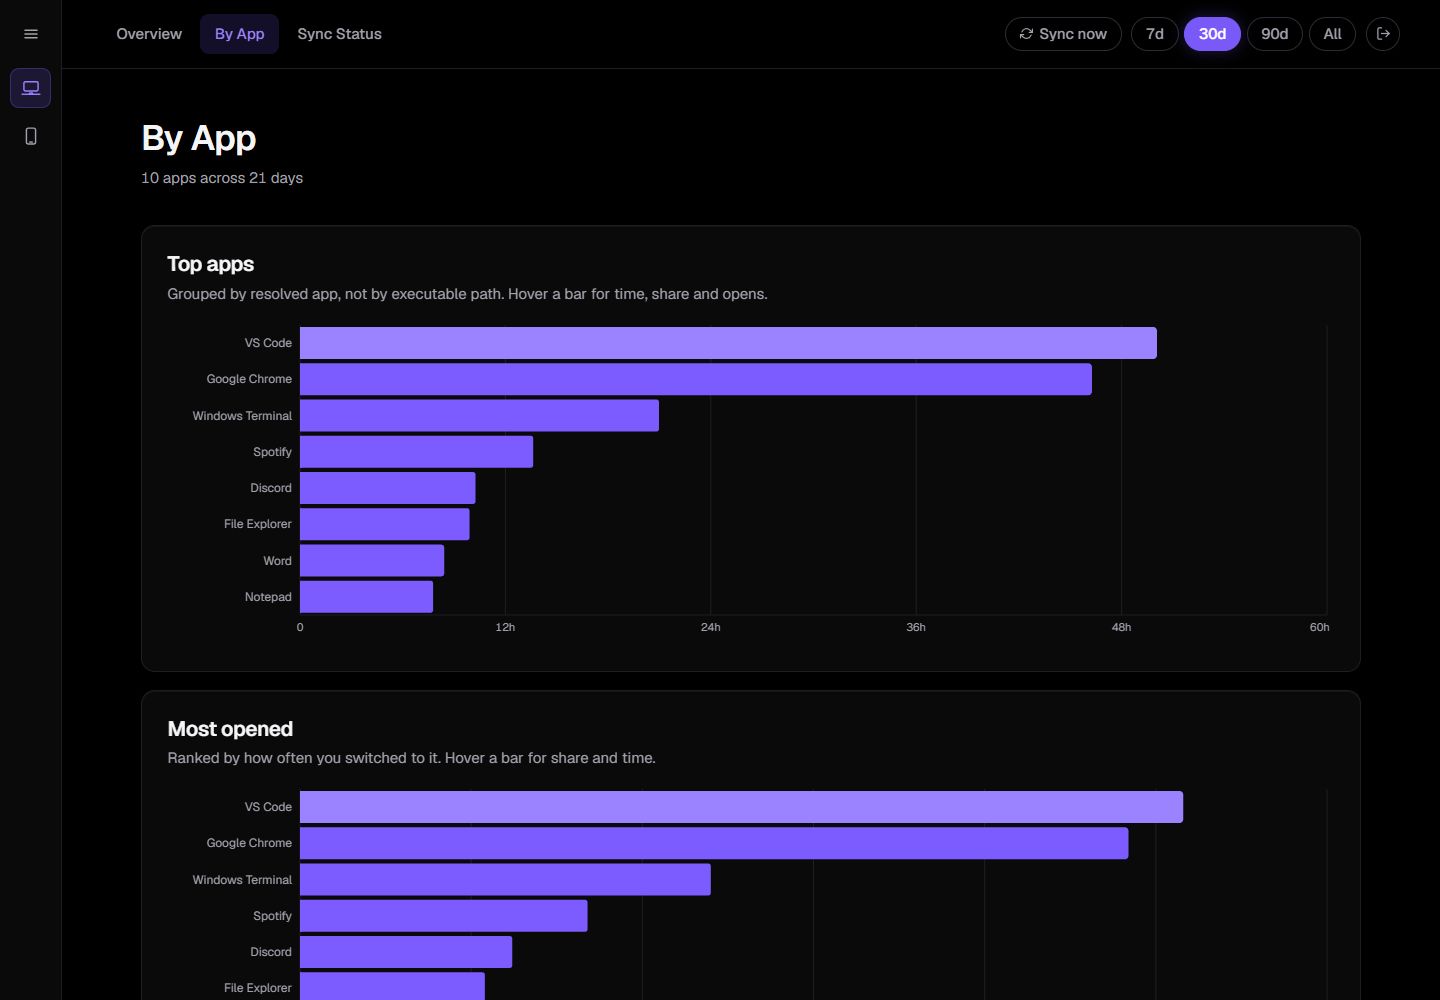
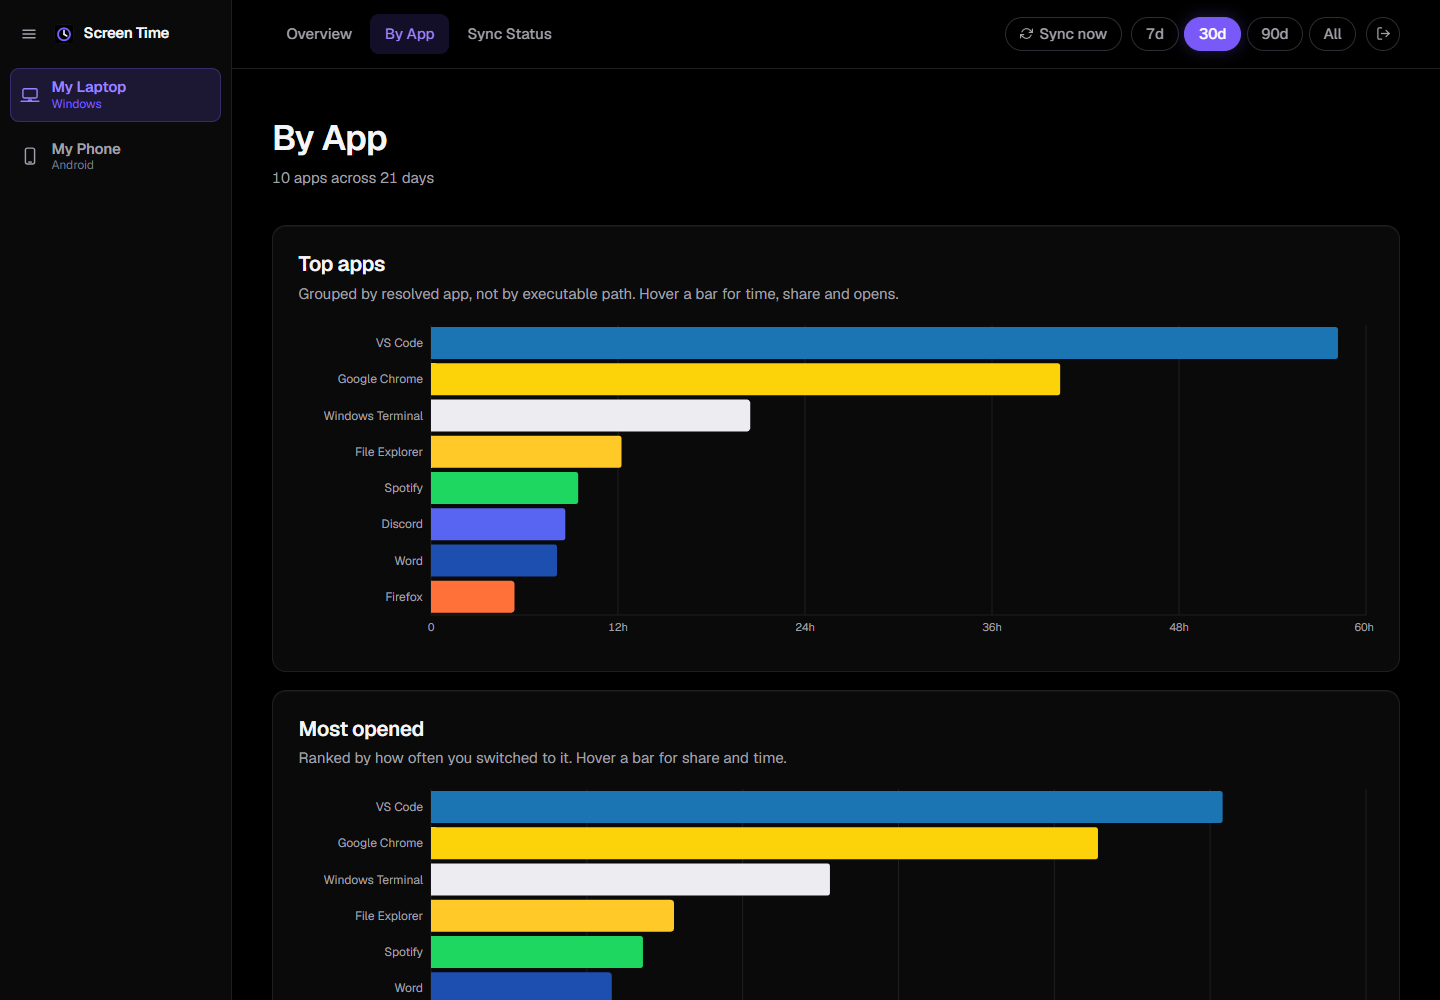
docs: a full-page tour of every page, in brand colours, with a generic demo phone
- The demo phone is "My Phone", like "My Laptop"; its Pixel-specific apps
  became generic ones.
- The seeder writes the demo's own app-colours.json, so the ranked charts
  draw brand colours; Camera and Launcher show the accent fallback.
- README gains a tour: full-page screenshots of Overview, By App, app
  detail, Activity and Sync Status for both devices, in collapsible
  sections. Hero shots and the social preview re-rendered.
- The demo now matches a real installation: apps cover 0.75x of screen-on
  (was 0.97x, against the 0.76x the README quotes), and sync runs are
  backdated onto the real hourly / six-hourly cadence.
- demo:seed renames before deleting, so seeding while the demo runs fails
  cleanly instead of deleting the running demo's database.

Changed region(s): [[0.125, 0.248, 0.9375, 0.62], [0.0938, 0.713, 0.8438, 1.0], [0.0, 0.0, 0.375, 0.186]]

diff --git a/scripts/seed-demo.ts b/scripts/seed-demo.ts
@@ -17,7 +17,7 @@
  * throwaway data, and the guard exists to protect history that is not.
  */
 
-import { mkdirSync, rmSync, writeFileSync } from 'node:fs';
+import { mkdirSync, renameSync, rmSync, writeFileSync } from 'node:fs';
 import { join, resolve } from 'node:path';
 import { openDatabase, startSyncRun, finishSyncRun } from '../src/lib/db';
 import { SEGMENT_INSERT_SQL, segmentRows, type Span } from '../src/lib/windows-ingest';
@@ -114,8 +114,8 @@ const PHONE_APPS: [string, string, number][] = [
   ['com.google.android.gm', 'Gmail', 6],
   ['com.duolingo', 'Duolingo', 4],
   ['com.google.android.calendar', 'Calendar', 3],
-  ['com.google.android.GoogleCamera', 'Camera', 3],
-  ['com.google.android.apps.nexuslauncher', 'Pixel Launcher', 5],
+  ['com.android.camera2', 'Camera', 3],
+  ['com.android.launcher3', 'Launcher', 5],
 ];
 
 function phoneDay(start: number, sessions: AndroidPayload['sessions'], screen: AndroidPayload['screen']) {
@@ -133,20 +133,56 @@ function phoneDay(start: number, sessions: AndroidPayload['sessions'], screen: A
     free = on + length + 8_000;
     screen!.push({ kind: 'screen_on', start: Math.round(on), end: Math.round(on + length + 8_000) });
     screen!.push({ kind: 'unlocked', start: Math.round(on + 3_000), end: Math.round(on + length + 8_000) });
-    let t = on + 3_000;
-    const end = on + length;
+    // Apps do NOT fill a pick-up. The lock screen, the gaps between apps and
+    // the last moments before the screen goes off belong to no app -- measured
+    // on a real phone, apps account for about 0.76x of screen-on time -- so the
+    // demo leaves that time unclaimed rather than packing sessions edge to edge.
+    let t = on + between(4, 20) * 1000;
+    const end = on + length * between(0.72, 0.9);
     while (t < end) {
       const pkg = pick(PHONE_APPS.map(([p, , w]) => [p, w] as [string, number]));
       const next = Math.min(end, t + between(0.2, 12) * MIN);
       sessions!.push({ packageName: pkg, start: Math.round(t), end: Math.round(next) });
-      t = next + between(1, 6) * 1000;
+      t = next + between(4, 25) * 1000;
     }
   }
 }
 
+/* ------------------------------------------------------ brand colours */
+
+// The demo's own config/app-colours.json, so its ranked charts draw brand
+// colours the way a real installation's do. Keyed by the app's display name:
+// with no logo file, `logoIdentity()` falls back to `logoKey(name)`. Camera and
+// Launcher are left out on purpose -- they show the device-accent fallback.
+const DEMO_COLOURS: Record<string, string> = {
+  // laptop
+  vscode: '#0065a9', googlechrome: '#fcd209', windowsterminal: '#ececf1',
+  spotify: '#1ed760', fileexplorer: '#ffc928', discord: '#5865f2',
+  word: '#1146ac', firefox: '#ff7139', notepad: '#43afcf', vlc: '#f48200',
+  // phone
+  youtube: '#ff0033', whatsapp: '#23b33a', chrome: '#fcd209', telegram: '#1d93d2',
+  maps: '#34a853', gmail: '#ea4335', duolingo: '#58cc02', calendar: '#4797ff',
+};
+
 /* -------------------------------------------------------------- write */
 
-rmSync(OUT, { recursive: true, force: true });
+// Rename first, then delete. Windows will not remove a folder a running
+// process is using -- and `npm run demo` runs with demo/ as its working
+// directory -- but rmSync deletes the files INSIDE before failing on the
+// folder itself, which would take the running demo's database with it. A
+// rename of a busy folder fails with nothing touched.
+const doomed = `${OUT}.old-${process.pid}`;
+try {
+  renameSync(OUT, doomed);
+} catch (err) {
+  const code = (err as { code?: string }).code;
+  if (code === 'EPERM' || code === 'EBUSY') {
+    console.error(`${OUT} is in use -- stop \`npm run demo\` first, then seed again.`);
+    process.exit(1);
+  }
+  if (code !== 'ENOENT') throw err;
+}
+rmSync(doomed, { recursive: true, force: true });
 mkdirSync(join(OUT, 'config'), { recursive: true });
 mkdirSync(join(OUT, 'sampler'), { recursive: true });
 const dbPath = join(OUT, 'demo.db');
@@ -159,6 +195,11 @@ writeFileSync(join(OUT, 'config', 'collector.json'), JSON.stringify({
   scratchDir: join(OUT, 'scratch'),
   samplerLogDir: join(OUT, 'sampler'),
   backupEnabled: false,
+}, null, 2));
+
+writeFileSync(join(OUT, 'config', 'app-colours.json'), JSON.stringify({
+  $schema_note: 'DEMO -- brand colours for the demo apps. See config/app-colours.example.json.',
+  colours: DEMO_COLOURS,
 }, null, 2));
 
 const db = openDatabase(dbPath, { allowSystemDrive: true });
@@ -191,7 +232,8 @@ try {
   const past = <T extends { end: number }>(rows: T[]) => rows.filter((r) => r.end <= now);
   const result = ingestAndroid(db, {
     device: {
-      deviceId: 'demo-pixel-8', label: 'Pixel 8', brand: 'Google', model: 'Pixel 8',
+      // Generic on purpose, like "My Laptop": the demo names no real device.
+      deviceId: 'demo-phone', label: 'My Phone',
       androidRelease: '15', sdkInt: 35, eventsReachUtc: new Date(now - 10 * 24 * HOUR).toISOString(),
     },
     tzOffsetMinutes: -new Date().getTimezoneOffset(),
@@ -201,15 +243,24 @@ try {
     apps: PHONE_APPS.map(([packageName, label]) => ({ packageName, label, isSystem: false })),
   });
 
-  // A few collection runs, so the Sync pages have a history to show.
-  for (const [device, source] of [['zephyrus', 'win-sampler'], ['demo-pixel-8', 'android-events']] as const) {
-    for (let i = 0; i < 6; i++) {
+  // A run history on each collector's real cadence -- the laptop's ingest
+  // hourly, the phone every six hours -- so the Sync pages read like a live
+  // installation rather than twelve runs stamped the same minute.
+  // startSyncRun() stamps "now", so each run is backdated afterwards.
+  const backdate = db.prepare('UPDATE sync_log SET started_at = ?, finished_at = ? WHERE id = ?');
+  const cadence = [['zephyrus', 'win-sampler', 1, 10], ['demo-phone', 'android-events', 6, 8]] as const;
+  for (const [device, source, everyHours, runs] of cadence) {
+    for (let i = runs - 1; i >= 0; i--) {
+      const at = now - (i * everyHours + between(0.05, 0.3)) * HOUR;
+      const took = Math.round(between(120, 900));
+      const stored = Math.round(source === 'win-sampler' ? between(20, 90) : between(300, 900));
       const id = startSyncRun(db, device, source);
       finishSyncRun(db, id, {
-        status: 'success', rowsRead: 40 + i, rowsInserted: 40 + i, rowsSkipped: 0,
-        sourceOldestUtc: null, sourceNewestUtc: new Date(now - i * 6 * HOUR).toISOString(),
-        backupStatus: null, durationMs: 180 + i * 20, error: null,
+        status: 'success', rowsRead: stored, rowsInserted: stored, rowsSkipped: 0,
+        sourceOldestUtc: null, sourceNewestUtc: new Date(at).toISOString(),
+        backupStatus: 'ok', durationMs: took, error: null,
       });
+      backdate.run(new Date(at).toISOString(), new Date(at + took).toISOString(), id);
     }
   }
 

diff --git a/scripts/selftest.ts b/scripts/selftest.ts
@@ -1181,7 +1181,7 @@ check('protocol-relative is refused', safeNextPath('//evil.example'), null);
 check('absolute URL is refused', safeNextPath('https://evil.example/'), null);
 check('javascript: is refused', safeNextPath('javascript:alert(1)'), null);
 check('empty is refused', safeNextPath(''), null);
-check('a real page passes, query intact', safeNextPath('/android/pixel-8/apps?days=7'), '/android/pixel-8/apps?days=7');
+check('a real page passes, query intact', safeNextPath('/android/my-phone/apps?days=7'), '/android/my-phone/apps?days=7');
 check('an encoded app key survives', safeNextPath('/windows/x/apps/exe%3Avlc'), '/windows/x/apps/exe%3Avlc');
 
 /* ------------------------------------------------------------------ */
@@ -1254,7 +1254,7 @@ section('session cookie');
 /* ------------------------------------------------------------------ */
 section('phone payload limits');
 {
-  const ok = { device: { deviceId: 'abc', label: 'Pixel 8' }, tzOffsetMinutes: 360 };
+  const ok = { device: { deviceId: 'abc', label: 'My Phone' }, tzOffsetMinutes: 360 };
   check('a minimal payload is fine', payloadProblem(ok), null);
   check('the reachability probe is a 400', payloadProblem({})?.status, 400);
   check('a non-object is a 400', payloadProblem('x')?.status, 400);

diff --git a/README.md b/README.md
@@ -22,7 +22,65 @@ reset.**
 
 | By App | A phone |
 |---|---|
-| ![Top apps ranked by time, as horizontal bars](docs/screenshots/laptop-by-app.png) | ![A phone's Overview: screen time and unlocks, with a daily trend](docs/screenshots/phone-overview.png) |
+| ![Top apps ranked by time, as horizontal bars in each app's brand colour](docs/screenshots/laptop-by-app.png) | ![A phone's Overview: screen time and unlocks, with a daily trend](docs/screenshots/phone-overview.png) |
+
+## A tour of every page
+
+Full-page screenshots, top to bottom. Click a page to open it.
+
+**The laptop**
+
+<details><summary>Overview: today, the daily trend, a six-month heat map, the shape of the day, and where every minute went</summary>
+
+![The laptop's Overview, full page](docs/screenshots/tour/laptop-1-overview.png)
+</details>
+
+<details><summary>By App: ranked by time and by opens, in each app's brand colour, above the full app table</summary>
+
+![The laptop's By App page, full page](docs/screenshots/tour/laptop-2-by-app.png)
+</details>
+
+<details><summary>App detail: one app's total, opens, typical session and longest session, per day and per hour</summary>
+
+![An app's detail page on the laptop, full page](docs/screenshots/tour/laptop-3-app-detail.png)
+</details>
+
+<details><summary>Activity: the heat map, expanded to every recorded day</summary>
+
+![The laptop's Activity page](docs/screenshots/tour/laptop-4-activity.png)
+</details>
+
+<details><summary>Sync Status: whether the sampler is running, what is stored, and every ingest run</summary>
+
+![The laptop's Sync Status page, full page](docs/screenshots/tour/laptop-5-sync.png)
+</details>
+
+**A phone**
+
+<details><summary>Overview: screen-on time and unlocks, the trend, the heat map, and how much of it any app accounts for</summary>
+
+![The phone's Overview, full page](docs/screenshots/tour/phone-1-overview.png)
+</details>
+
+<details><summary>By App: ranked by time and by opens, above every app the phone reported</summary>
+
+![The phone's By App page, full page](docs/screenshots/tour/phone-2-by-app.png)
+</details>
+
+<details><summary>App detail: one app, per day and per hour</summary>
+
+![An app's detail page on the phone, full page](docs/screenshots/tour/phone-3-app-detail.png)
+</details>
+
+<details><summary>Activity: the phone's heat map, expanded</summary>
+
+![The phone's Activity page](docs/screenshots/tour/phone-4-activity.png)
+</details>
+
+<details><summary>Sync Status: how far back Android's history reaches, and every push from the phone</summary>
+
+![The phone's Sync Status page, full page](docs/screenshots/tour/phone-5-sync.png)
+</details>
 
 ## How it works
 

diff --git a/CLAUDE.md b/CLAUDE.md
@@ -653,12 +653,31 @@ other local dashboards (7843 is the sibling Data Usage Tracker, 7845 is the
 Internet Speed Meter). The demo went to 7849 after 7845 turned out to be
 taken. Check with `Get-NetTCPConnection -State Listen` before picking a port.
 
-**The README's screenshots are of the DEMO**, never of real data. To redo
-them: seed, build and serve a scratch copy (never build over the live
+**The README's screenshots are of the DEMO**, never of real data: "My
+Laptop" and "My Phone", generic apps, and brand colours from the demo's own
+`app-colours.json` (bars are coloured by name even with no logo files). To
+redo them: seed, build and serve a scratch copy (never build over the live
 `.next`), mint a session cookie with `issueSession()` and the scratch
 server's throwaway password, and capture with headless Edge over the
-DevTools protocol, with reduced motion emulated so the count-ups render
-their final values.
+DevTools protocol. `docs/screenshots/` holds three one-screen hero shots, and
+`tour/` holds a full-page shot of every page, taken by growing the viewport to
+`scrollHeight`, not by stitching. Three traps, all hit on 2026-09-23:
+
+- **A fixed sleep is not a wait.** On a slow render the old document was still
+  up, so three different pages came out the same height, measured from the
+  previous page. Wait for the target URL and `readyState`, then for the height
+  to stop changing.
+- **Cards fade in on a staggered DELAY that reduced motion does not remove**,
+  and a headless or background tab throttles animations. So shots caught cards
+  at opacity 0. Inject `animation: none` for the capture, and bring the page to
+  the front with focus emulated. The site itself is fine.
+- **The demo must look like a real phone.** Packing app sessions edge to edge
+  made the Overview say apps covered 0.97x of screen-on, contradicting the
+  measured 0.76x the README quotes. The seeder now leaves lock-screen and
+  between-app time unclaimed (~0.75x). The Sync page needs a heartbeat under
+  a minute old to read "Running", so the capture writes one just before that
+  shot. `npm run demo:seed` refuses, with nothing deleted, while `npm run
+  demo` holds the folder.
 
 The Windows probe, from an **Administrator** shell. Absolute path on purpose:
 the relative form only works from the repo root, and running it from inside

diff --git a/docs/DEVLOG.md b/docs/DEVLOG.md
@@ -6,6 +6,27 @@ was the project's CHANGELOG.md until v1.0.0; the release log is now
 
 ## After 1.0.0
 
+### Screenshots: every page, full length, in brand colours, with no device names
+
+- **The demo phone is "My Phone"**, like "My Laptop". Its Pixel-specific apps
+  became generic ones (Launcher, Camera).
+- **Bars are in brand colours.** The seeder writes the demo's own
+  config/app-colours.json. With no logo files, colours are keyed by app
+  name, and Camera and Launcher are left out to show the accent fallback.
+- **A tour of every page**, full length, in collapsible sections in the README:
+  Overview, By App, app detail, Activity and Sync Status for both devices.
+- **The demo now looks like a real installation.** Apps cover 0.75x of
+  screen-on time (it was 0.97x, contradicting the 0.76x the README quotes).
+  Sync runs are backdated onto the real cadence, not all stamped one minute.
+  The capture writes a fresh heartbeat so the Sync page shows a running
+  sampler.
+- **npm run demo:seed renames before deleting**, so seeding while the demo
+  runs fails cleanly with a message. rmSync would have deleted the running
+  demo's database before failing on the busy folder.
+- The capture waits for real readiness and disables animations. A fixed sleep
+  plus throttled fade-in delays had produced half-empty pages. The social
+  preview was re-rendered from the new shots.
+
 ### A social preview image
 
 `docs/social-preview.png` (1280x640, 149 KB) is the card GitHub shows when the

diff --git a/public/apps_logo/README.md b/public/apps_logo/README.md
@@ -30,7 +30,7 @@ than shared when two devices show the same app:
 ```
 apps_logo/
   My Laptop/        the Windows machine, named as the sidebar shows it
-  pixel-8/          a phone, by its label or slug
+  my-phone/         a phone, by its label or slug
   another-phone/
 ```
 
